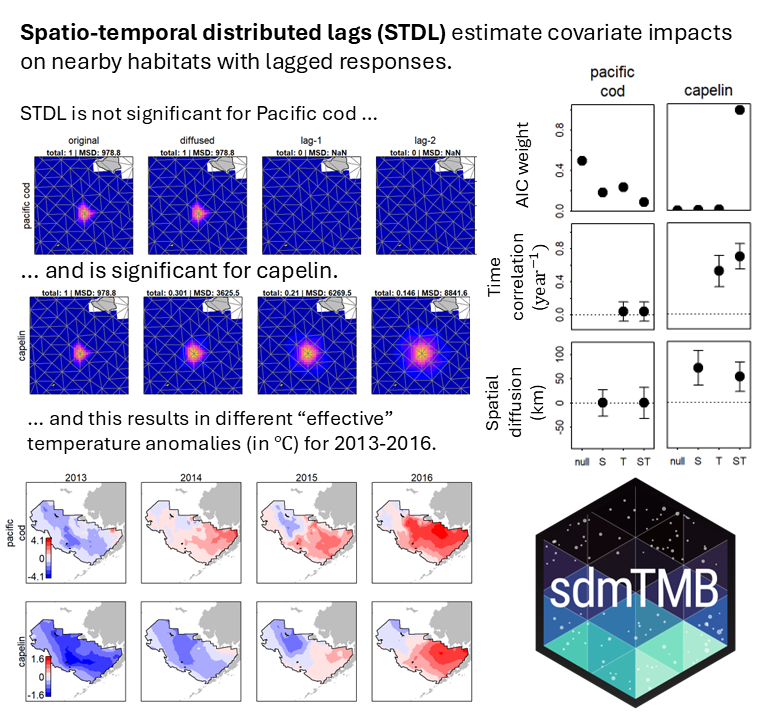
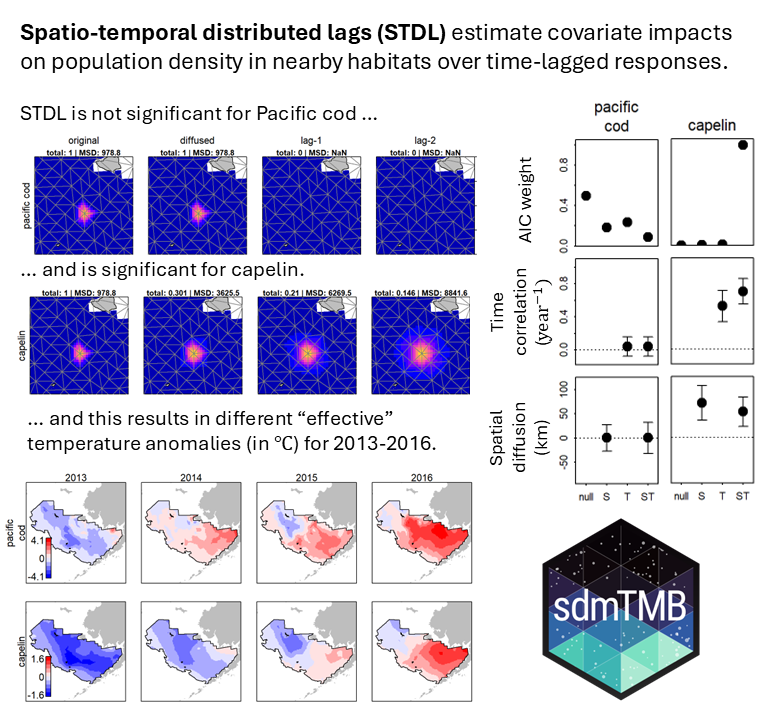
switch explore_spacetime_lag.R ...
... to use kappa_T (not rho_T) so that matches notation in paper

Changed region(s): [[0.0625, 0.0611, 1.0, 1.0], [0.0312, 0.3667, 0.4375, 0.3972], [0.4375, 0.6111, 0.4688, 0.6417]]

diff --git a/spacetime_lag.cpp b/spacetime_lag.cpp
@@ -36,7 +36,7 @@ Type objective_function<Type>::operator() ()
 
   // Data
   DATA_IVECTOR( options_z );
-  // options_z(0)=0: L1 is stationary  |  options_z(0)=1: L1 is innovations
+  // options_z(0)=0: L1 is innovations  |  options_z(0)=1: L1 is stationary
   // options_z(1) NOT USED
   DATA_INTEGER( n_t );
   DATA_VECTOR( a_g );  // Area associated with grid-cell g